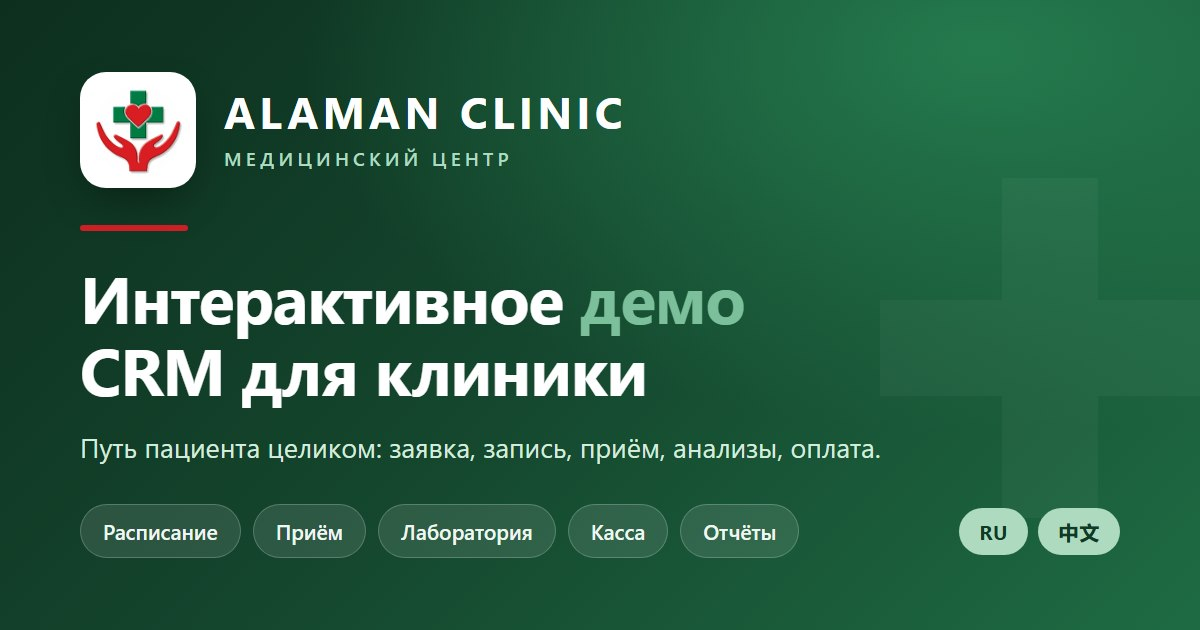
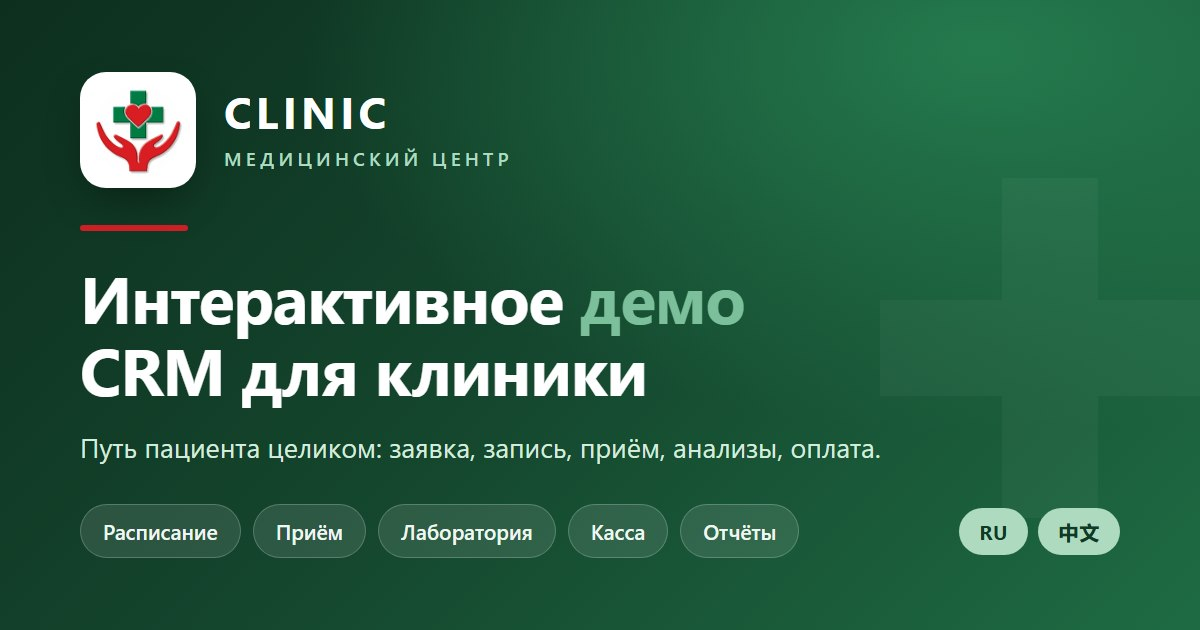
Add files via upload

Changed region(s): [[0.185, 0.1508, 0.5242, 0.2111]]

diff --git a/index.html b/index.html
@@ -5,25 +5,25 @@
     <meta name="viewport" content="width=device-width, initial-scale=1.0" />
     <meta name="robots" content="noindex, nofollow" />
[1 lines of base64/hex data omitted]
-    <title>Alaman Clinic — панель</title>
-    <script type="module" crossorigin src="./assets/index-CgCJao2Z.js"></script>
+    <title>Clinic — демо</title>
+    <script type="module" crossorigin src="./assets/index-BRGJfwfU.js"></script>
     <link rel="stylesheet" crossorigin href="./assets/index-DgwZtnwm.css">
     <meta name="description" content="Интерактивный макет на живых данных: заявка, запись, приём, анализы, оплата. Шесть ролей, русский и китайский.">
     <meta name="theme-color" content="#113a26">
     <meta property="og:type" content="website">
-    <meta property="og:site_name" content="Alaman Clinic">
+    <meta property="og:site_name" content="Clinic">
     <meta property="og:locale" content="ru_RU">
     <meta property="og:locale:alternate" content="zh_CN">
-    <meta property="og:title" content="Alaman Clinic — демо CRM для клиники">
+    <meta property="og:title" content="Clinic — демо CRM для клиники">
     <meta property="og:description" content="Интерактивный макет на живых данных: заявка, запись, приём, анализы, оплата. Шесть ролей, русский и китайский.">
     <meta property="og:url" content="https://issatayski.github.io/med/">
     <meta property="og:image" content="https://issatayski.github.io/med/og.jpg">
     <meta property="og:image:type" content="image/jpeg">
     <meta property="og:image:width" content="1200">
     <meta property="og:image:height" content="630">
-    <meta property="og:image:alt" content="Логотип Alaman Clinic и подпись «Интерактивное демо CRM для клиники»">
+    <meta property="og:image:alt" content="Логотип Clinic и подпись «Интерактивное демо CRM для клиники»">
     <meta name="twitter:card" content="summary_large_image">
-    <meta name="twitter:title" content="Alaman Clinic — демо CRM для клиники">
+    <meta name="twitter:title" content="Clinic — демо CRM для клиники">
     <meta name="twitter:description" content="Интерактивный макет на живых данных: заявка, запись, приём, анализы, оплата. Шесть ролей, русский и китайский.">
     <meta name="twitter:image" content="https://issatayski.github.io/med/og.jpg">
   </head>
